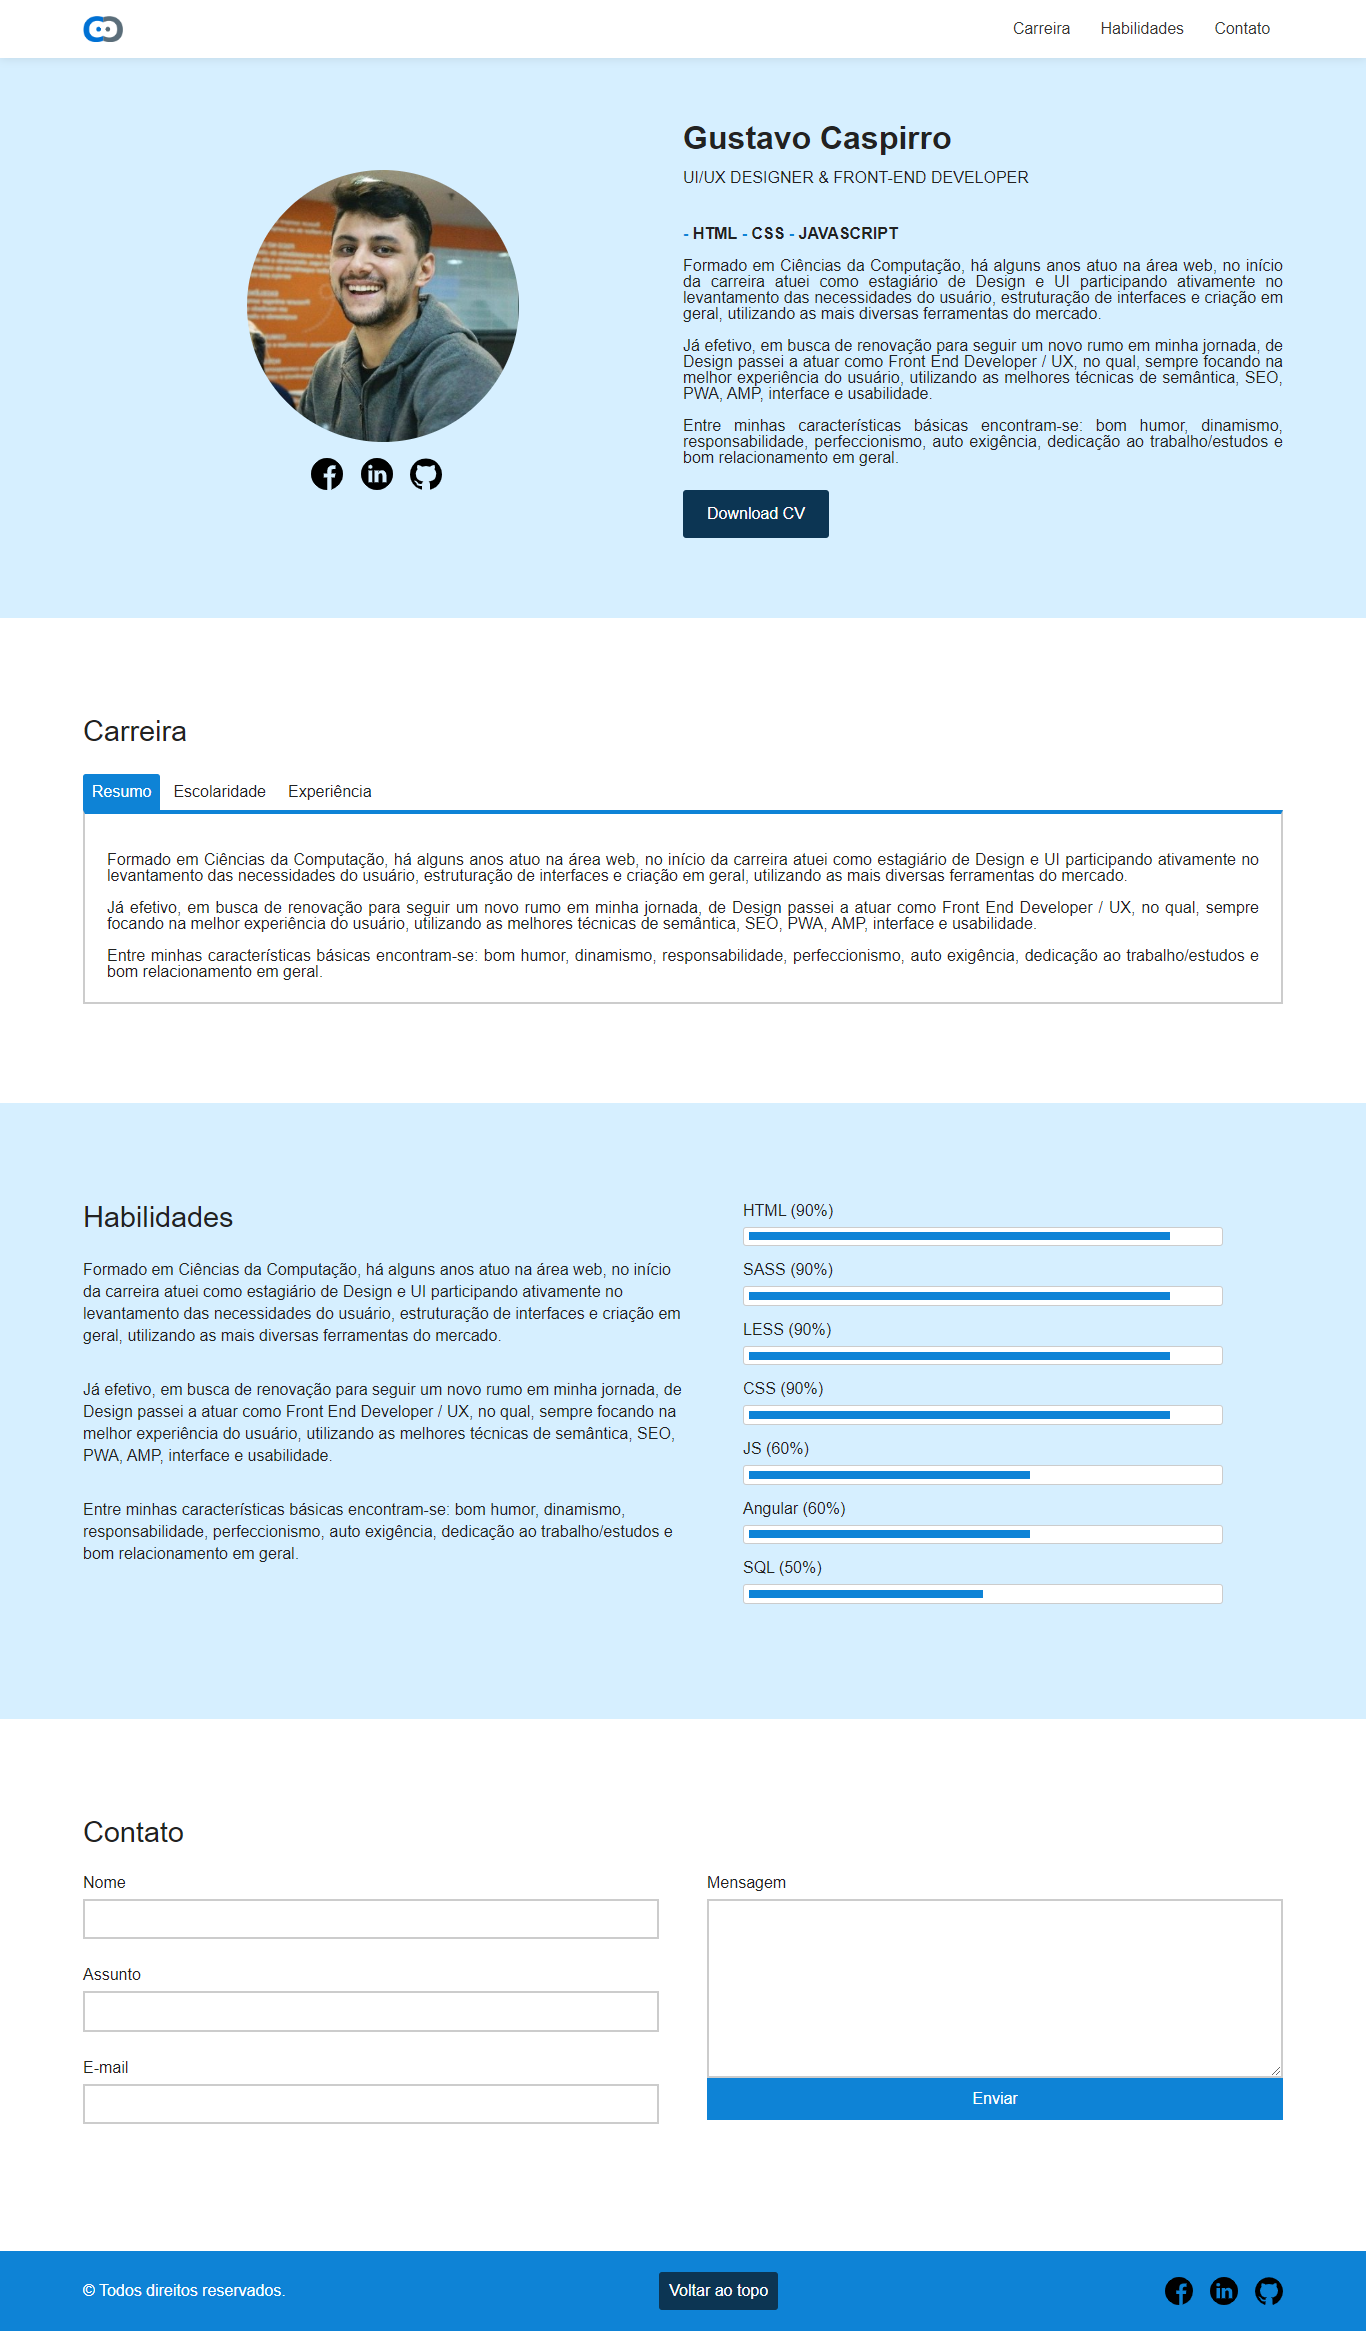
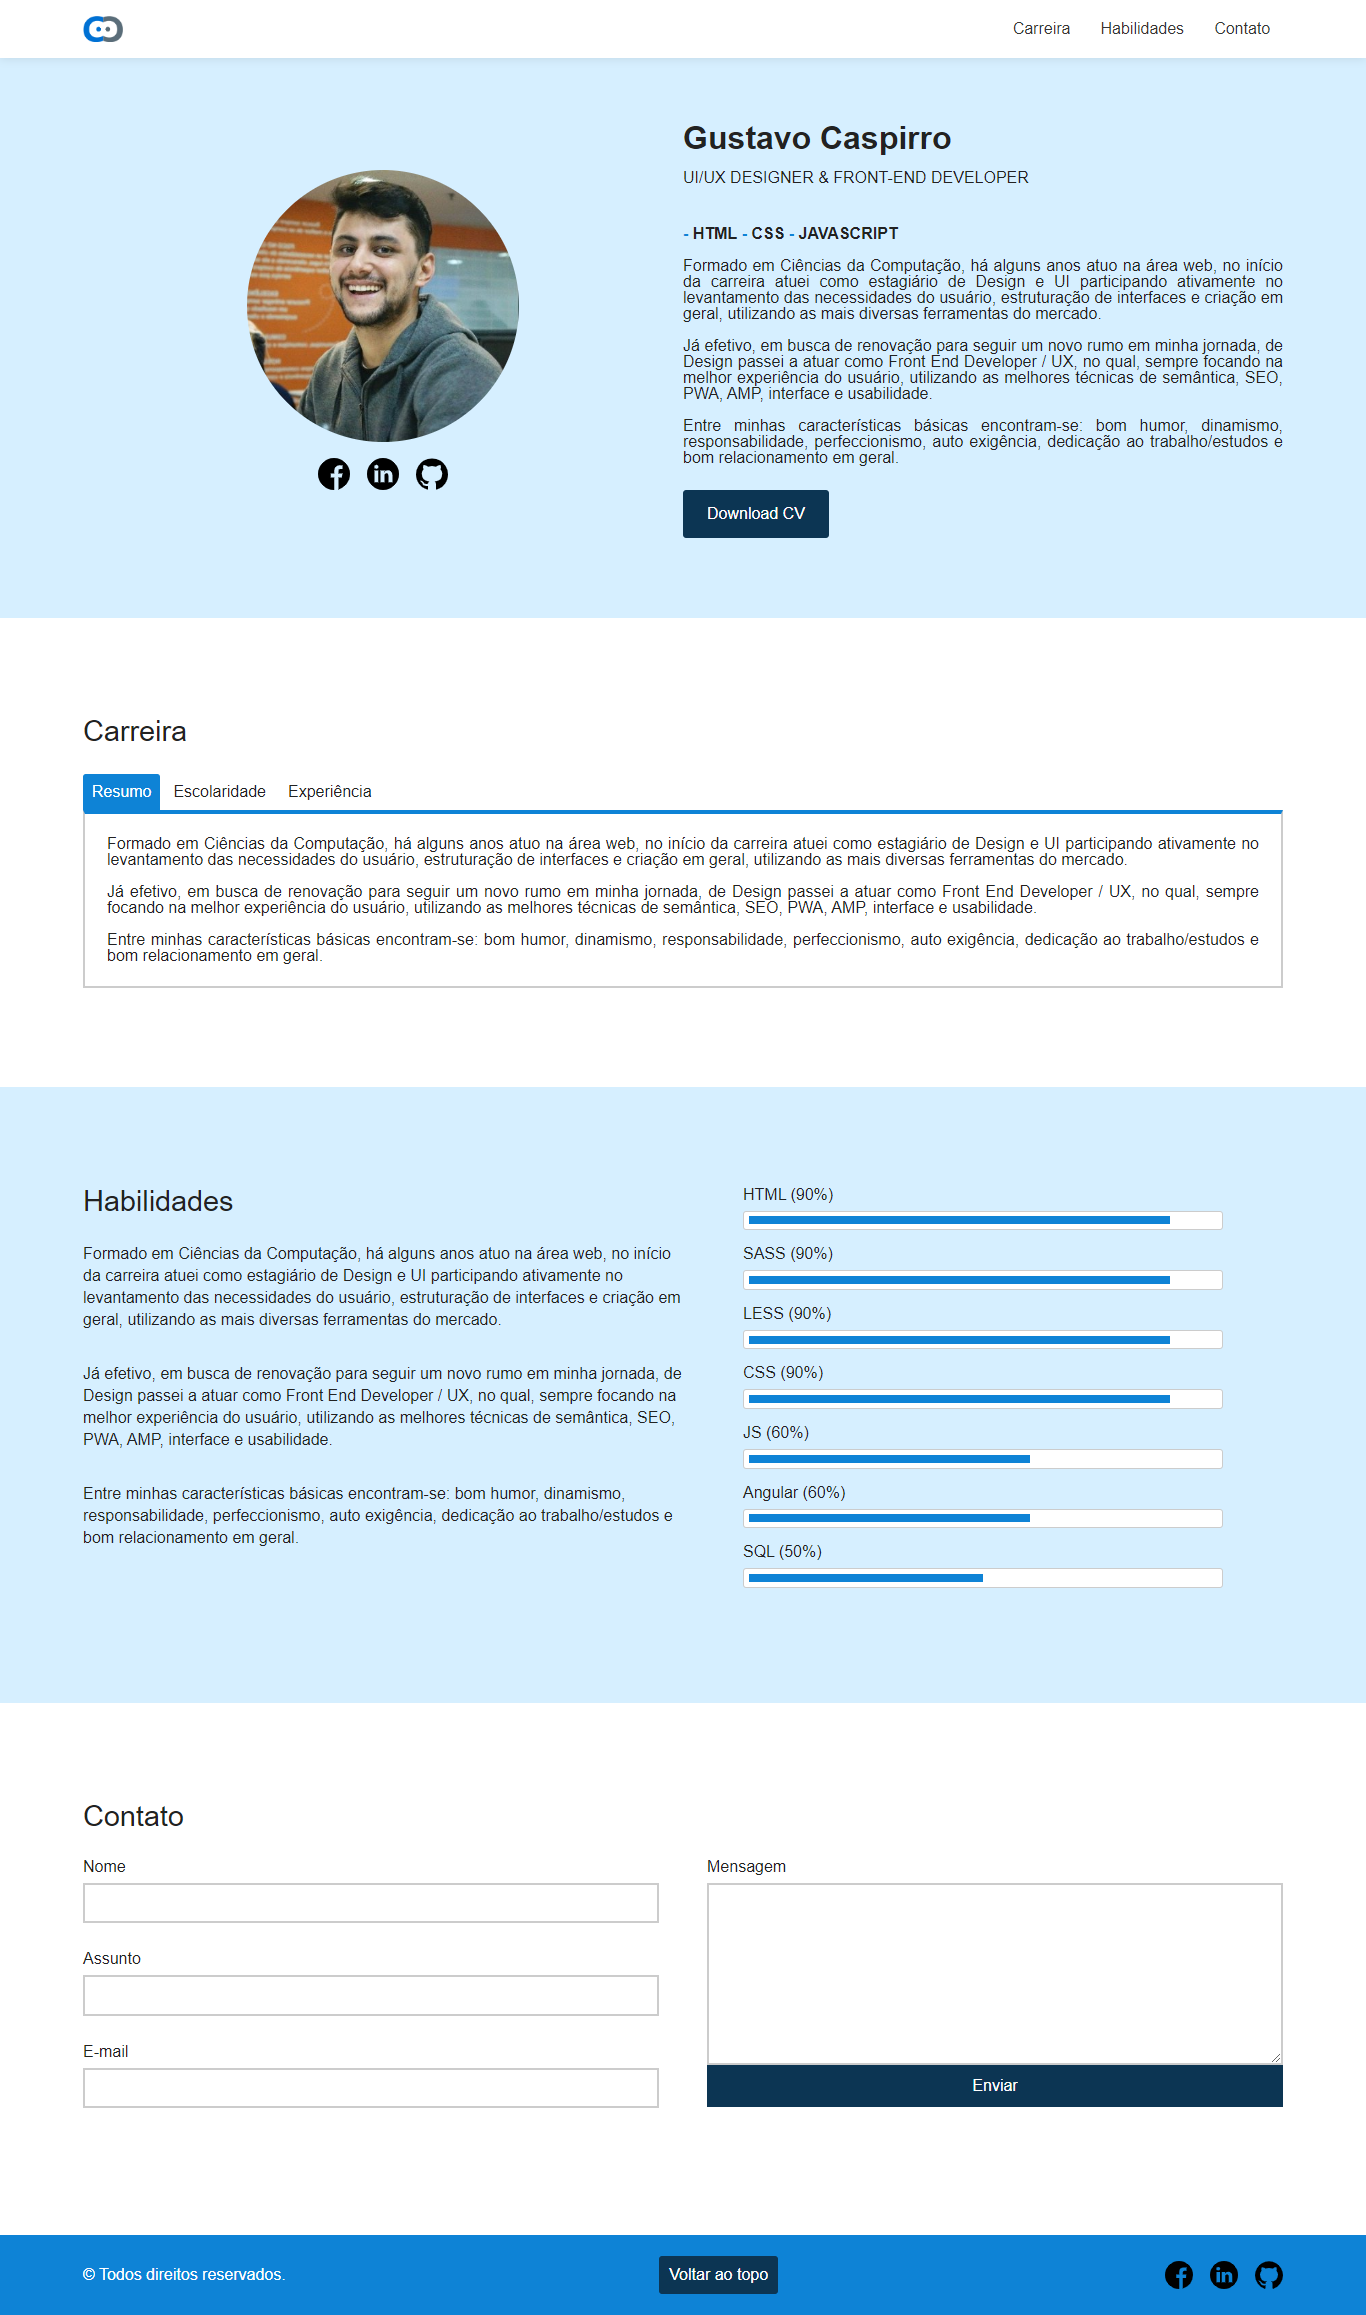
Refatorando html, css e img

diff --git a/portfolio.html b/portfolio.html
@@ -27,24 +27,18 @@
         <div class="wrapper">
             <div class="about-me__content">
                 <div class="about-me__box">
-                    <img class="about-me__box__photo" src="./img/gustavo-caspirro.jpg" alt="Minha Foto" title="Gustavo Caspirro">
-                    <ul class="social-icons">
-                        <li class="social-icons__box">
-                            <a class="link facebook-link" href="https://www.facebook.com/caspirrodesigner/" target="_blank">
-                                <img class="social-icons__icon" src="./img/facebook.svg" alt="Icone Facebook" title="Facebook">
-                            </a>
-                        </li>
-                        <li class="social-icons__box">
-                            <a class="link linkedin-link" href="https://www.linkedin.com/in/gustavocaspirro/" target="_blank">
-                                <img class="social-icons__icon" src="./img/linkedin.svg" alt="Icone Linkedin" title="Linkedin">
-                            </a>
-                        </li>
-                        <li class="social-icons__box">
-                            <a class="link linkedin-link" href="https://github.com/gustavocaspirro" target="_blank">
-                                <img class="social-icons__icon" src="./img/github.svg" alt="Icone GitHub" title="GitHub">
-                            </a>
-                        </li>
-                    </ul>
+                    <img class="about-me__content__photo" src="./img/gustavo-caspirro.jpg" alt="Minha Foto" title="Gustavo Caspirro">
+                    <div class="about-me__social-icons">
+                        <a class="link" href="https://www.facebook.com/caspirrodesigner/" target="_blank">
+                            <img class="about-me__social-icons__icon" src="./img/facebook.svg" alt="Icone Facebook" title="Facebook">
+                        </a>
+                        <a class="link" href="https://www.linkedin.com/in/gustavocaspirro/" target="_blank">
+                            <img class="about-me__social-icons__icon" src="./img/linkedin.svg" alt="Icone Linkedin" title="Linkedin">
+                        </a>
+                        <a class="link" href="https://github.com/gustavocaspirro" target="_blank">
+                            <img class="about-me__social-icons__icon github" src="./img/github.svg" alt="Icone GitHub" title="GitHub">
+                        </a>
+                    </div>
                 </div>
 
                 <div class="about-me__description">
@@ -73,7 +67,6 @@
                     <a class="btn btn-cv" href="./pdf/Curriculo-Gustavo-de-Paula-Caspirro.pdf" target="_blank" >Download CV</a>
                 </div>  
             </div>
-
         </div>
     </main>
 
@@ -146,7 +139,6 @@
 
     <section class="skills" id="skills">
         <div class="wrapper">
-
             <div class="skills__content">
                 <div class="information-text">
                     <h1 class="title-section">Habilidades</h1>
@@ -213,13 +205,11 @@
                     </div>
                 </div>
             </div>
-
         </div>
     </section>
 
     <section class="contact" id="contact">
         <div class="wrapper">
-
             <div class="contact__content">
                 <h1 class="title-section">Contato</h1>
 
@@ -232,21 +222,16 @@
                         <input class="input assunto" id="assunto" type="text" name="assunto" required>
             
                         <label class="label" for="email">E-mail</label>
-                        <input class="input email" id="email" type="text" name="email" required>
+                        <input class="input email" id="email" type="email" name="email" required>
                     </div>
 
                     <div class="contact__form__right">
                         <label class="label" for="message">Mensagem</label>
                         <textarea class="textarea mensagem" id="message" name="message" rows="10" required></textarea>
-                        <button class="button-send" type="button" onclick="sendEmail()">Enviar</button>
+                        <button class="btn button-send" type="button" onclick="sendEmail()">Enviar</button>
                     </div>
-        
-                    
                 </form>
-        
-                <div class="loading">Enviando E-mail...</div>
             </div>
-
         </div>
     </section>
 
@@ -273,6 +258,8 @@
             </div>
         </div>
     </footer>
+
+    <div class="loading">Enviando E-mail...</div>
 
     <script src="./js/tabs.js"></script>
     <script src="./js/sendEmail.js"></script>

diff --git a/css/about.css b/css/about.css
@@ -22,26 +22,29 @@
     width: 100%;
 }
 
-@media screen and (min-width: 768px) {
+ @media screen and (min-width: 768px) {
     .about-me__box { width: 50%; }
-}
+} 
 
-.about-me__box__photo {
+.about-me__content__photo {
     border-radius: 50%;
     text-align: center;
     width: 17rem;
 }
 
-.about-me__box .social-icons { margin-top: 1rem; }
+.about-me__social-icons { margin-top: 1rem; }
 
-.about-me__box .social-icons__box { display: inline-block; }
+.about-me .link { text-decoration: none; }
 
-.about-me__box .social-icons__box .link:focus { outline: none; }
+.about-me .link:focus { outline: none; }
 
-
-.about-me__box .social-icons__icon {
+.about-me__social-icons__icon {
     margin-right: .8rem;
     width: 2rem;
+}
+
+.about-me__social-icons__icon.github {
+    margin-right: 0;
 }
 
 .about-me__description {

diff --git a/js/sendEmail.js b/js/sendEmail.js
@@ -34,11 +34,10 @@ function sendEmail() {
         }
     )
     .then(data => {
-           console.log(data);
+           loading.className = loading.className.replace('show', '');
            alert("E-mail enviado com sucesso");
-           loading.className = loading.className.replace('show', '')
     }).catch(err => {
-        console.error(err);
-        loading.className = loading.className.replace('show', '')
+        loading.className = loading.className.replace('show', '');
+        console.error(`Mensagem de erro ${err}`);
     });
 }

diff --git a/js/BackToTop.js b/js/BackToTop.js
@@ -5,18 +5,9 @@ class BackToTop {
     }
 
     handleClick(instance, event) {
-       console.log('Clicado!!', instance, event);
-
-        event.view.scrollTo({ // Não suportado por alguns navegadores;
+        event.view.scrollTo({
             top: 0,
             behavior: 'smooth'
         });
-
-        // instance.interval = setInterval(() => {
-        //     if(window.scrollY <= 0)
-        //         return clearInterval(instance.interval);
-
-        //     window.scrollTo(0, window.scrollY - 10)
-        // }, 10)
     }
 }

diff --git a/css/career.css b/css/career.css
@@ -36,12 +36,17 @@
     .career .content.active { padding: 1.4rem; }
 }
 
-.career .content .box { margin-bottom: 20px; }
+.career .content .box { margin-bottom: 1.4rem; }
 
 .career .content--resume .text {
     margin-top: 1rem;
     text-align: justify;
 }
+
+.career .content--resume .text:first-of-type { margin-top: 0; }
+
+.career .content--school .box:last-of-type,
+.career .content--history .box:last-of-type { margin-bottom: 0; }
 
 .career .content .box .title {
     border-left: .25rem solid var(--brand-color);

diff --git a/css/contact.css b/css/contact.css
@@ -18,15 +18,19 @@
 
 .contact__form .textarea {
     border: .1rem solid var(--border-color);
-    height: 9.8rem;
+    height: 10rem;
     padding: .6rem;
 }
 
 .contact__form .button-send {
-    background: var(--brand-color);
     border: none;
-    color: var(--white-color);
+    border-radius: 0;
+    margin-top: 20px;
     padding: .75rem;
+}
+
+@media screen and (min-width: 768px) {
+    .contact__form .button-send { margin-top: 0; }
 }
 
 .contact__form__left,

diff --git a/css/footer.css b/css/footer.css
@@ -33,5 +33,10 @@
 .footer .btn-back-to-top {
     border: none;
     border-radius: 3px;
+    margin-top: 15px;
     padding: 10px;
+}
+
+@media screen and (min-width: 768px) {
+    .footer .btn-back-to-top { margin-top: 0; }
 }

diff --git a/css/loading.css b/css/loading.css
@@ -1,8 +1,6 @@
-.contact .loading {
-    display: none;
-}
+.loading { display: none; }
 
-.contact .loading.show {
+.loading.show {
     align-items: center;
     background: rgba(0,0,0,.8);
     color: var(--white-color);
